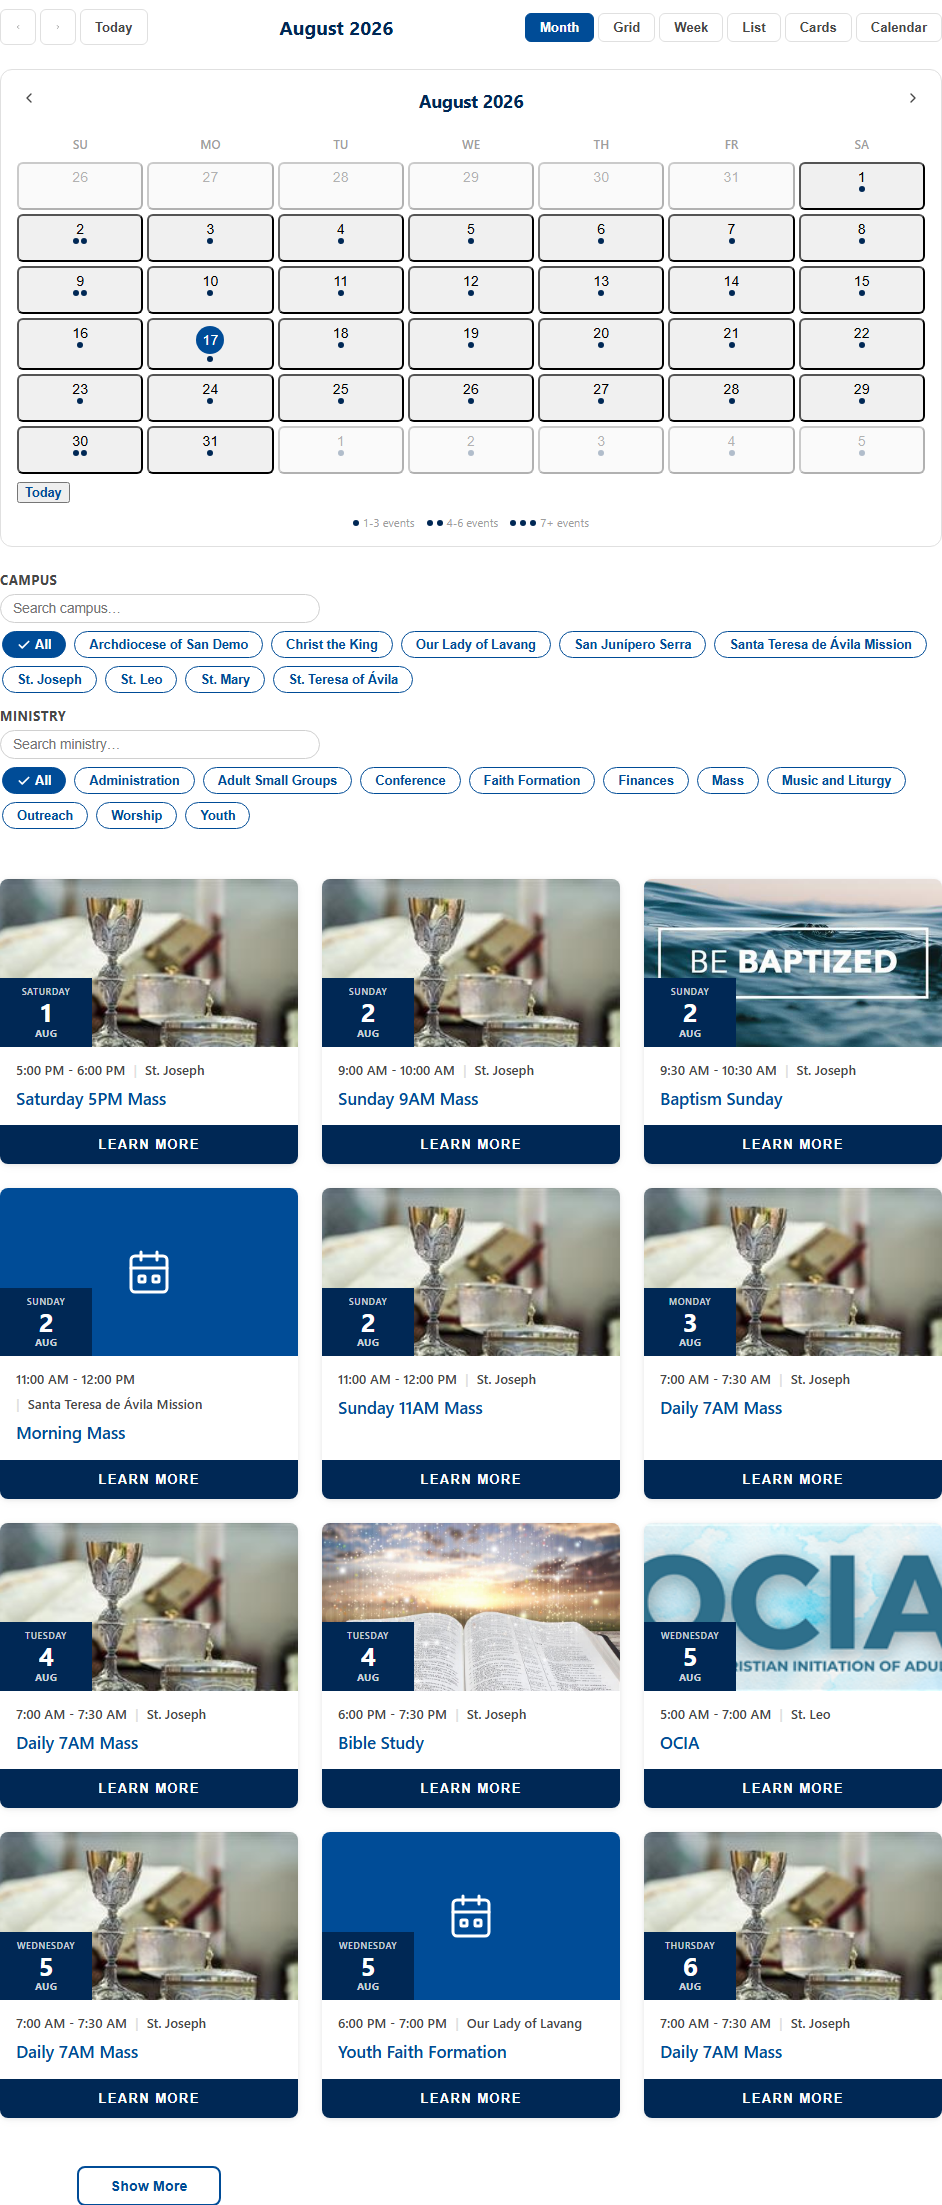
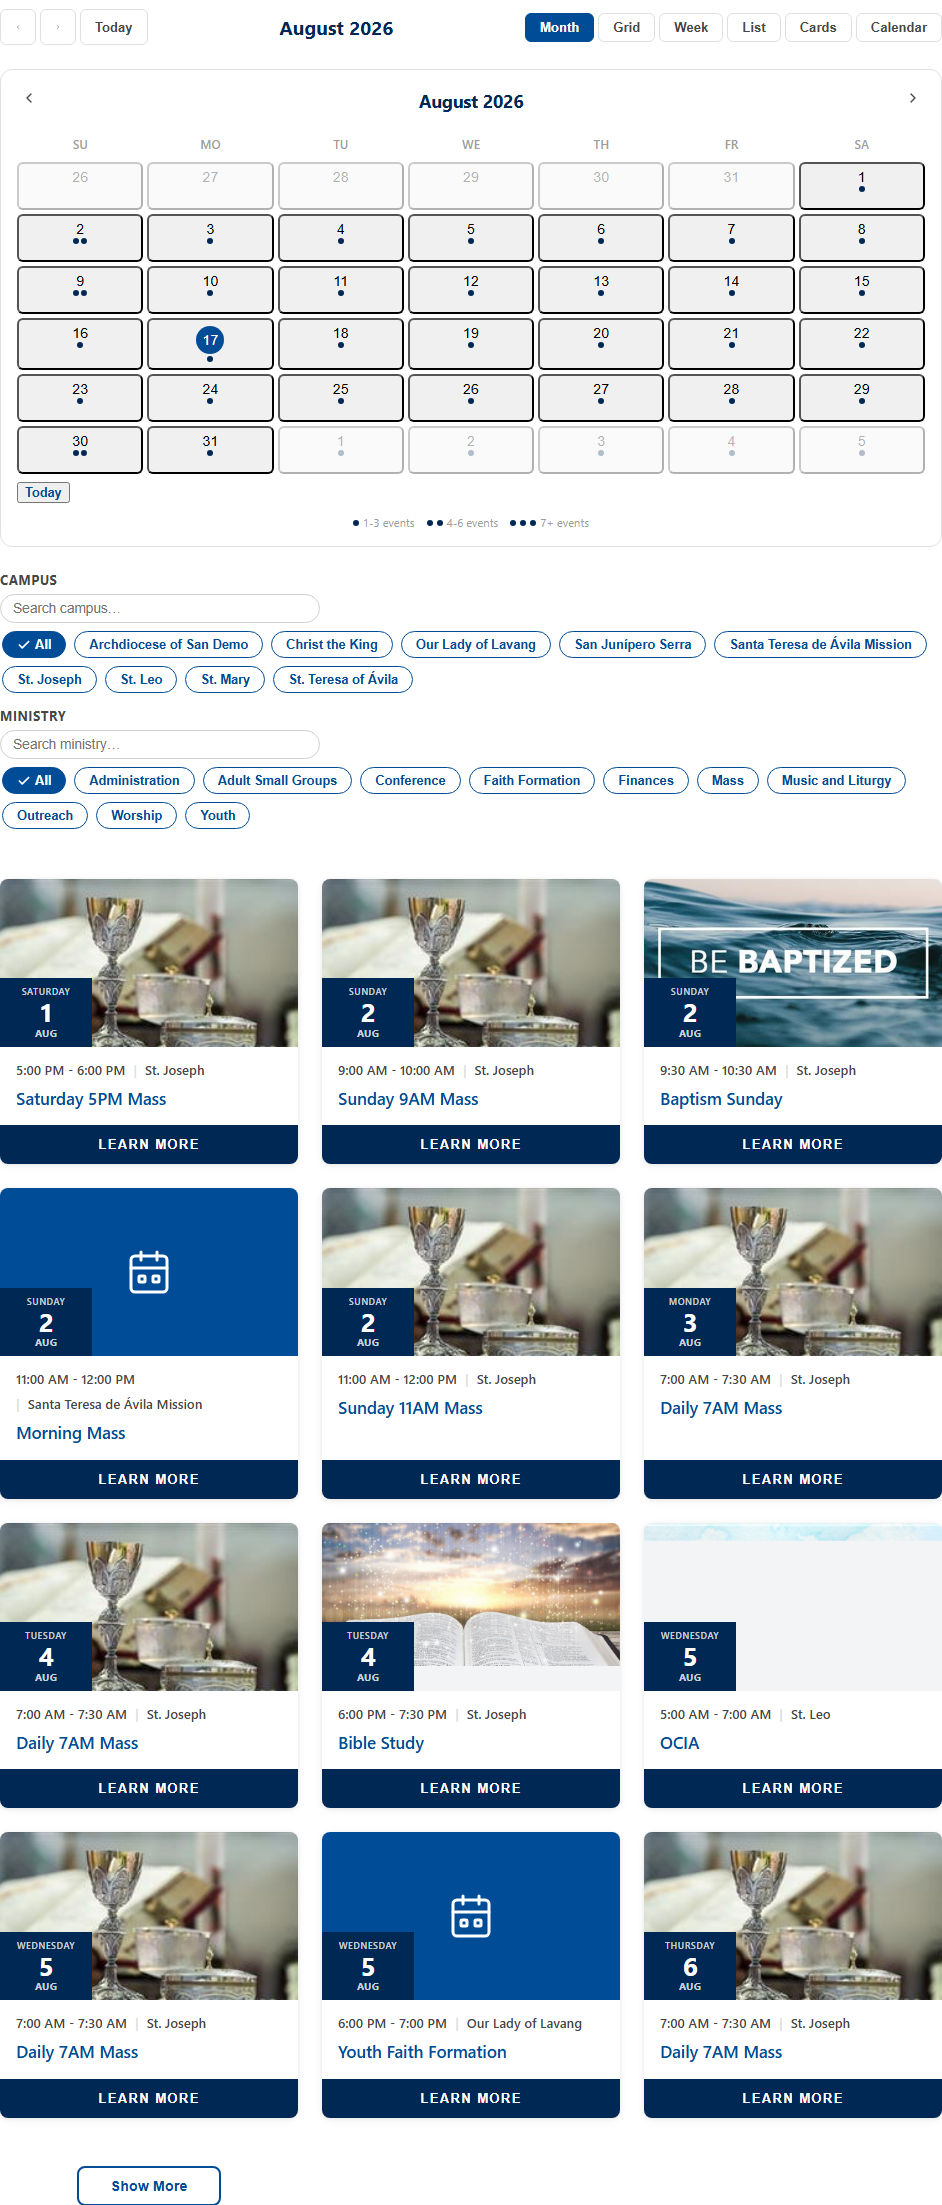
feat(gallery): add multi-image examples for Full Calendar and Space Availability
- Full Calendar now shows 5 labeled views (Month, Grid, Week, List,
  Cards), captured by driving the widget's own view-switcher toolbar
  rather than the demo harness's initial-view control.
- Space Availability's main image now demonstrates the room capacity
  filter (narrows to one room via "Select all"), and a new second
  image shows the "Request This Space" form filled out.
- gallery-images.ts: support up to 6 images per widget (was capped at
  2) plus optional per-image captions; gallery-card.tsx renders the
  caption under each thumbnail when present.

Changed region(s): [[0.6773, 0.6785, 1.0, 0.771], [0.431, 0.7401, 0.6465, 0.771]]

diff --git a/e2e/widget/capture-gallery-screenshots.ts b/e2e/widget/capture-gallery-screenshots.ts
@@ -135,18 +135,51 @@ test.describe("Gallery screenshots — no sign-in required", () => {
 
   test("full-calendar", async ({ page }) => {
     await page.goto("/demo-full-calendar.html");
-    // The demo page shows two instances (main month view + a "cards" view) —
-    // the first is the one worth screenshotting.
+    // The demo page shows two instances (main, toolbar-driven + a static
+    // "cards" one) — the first has the view-switcher toolbar this test
+    // drives through.
     const widget = page.locator("next-full-calendar").first();
     await expect(widget).toBeAttached();
     // The calendar grid renders asynchronously after the widget itself
-    // attaches (this is a hand-built "nw-fc-*" calendar, not the
-    // FullCalendar library despite the name) — wait for the month layout
-    // rather than a blind timeout, which otherwise risks capturing only
-    // the toolbar before layout runs.
+    // attaches — wait for the month layout rather than a blind timeout,
+    // which otherwise risks capturing only the toolbar before layout runs.
     await expect(widget.locator(".nw-fc-month-layout").first()).toBeVisible({ timeout: 10_000 });
     await page.waitForTimeout(500);
-    await shootWidget(widget, "full-calendar");
+    await shootWidget(widget, "full-calendar"); // Month (default) — mini-cal + card grid
+
+    // The widget's own toolbar exposes 6 views total; Month is captured
+    // above and Calendar is visually close to it (same split mini-cal +
+    // cards layout), so these 4 are the most meaningfully different to show.
+    // Grid/Week are the ONLY views that load the real FullCalendar.io
+    // library on demand (everything else is the hand-built "nw-fc-*"
+    // renderer) — they need a longer wait on first switch.
+    await widget.locator('.nw-fc-toolbar-btn[data-view="grid"]').click();
+    await expect(widget.locator(".fc-daygrid, .fc-view-harness").first()).toBeVisible({ timeout: 10_000 });
+    await page.waitForTimeout(800);
+    await shootWidget(widget, "full-calendar", "-2"); // Grid — real FullCalendar month grid
+
+    await widget.locator('.nw-fc-toolbar-btn[data-view="week"]').click();
+    await page.waitForTimeout(1500);
+    await shootWidget(widget, "full-calendar", "-3"); // Week — real FullCalendar week grid
+
+    await widget.locator('.nw-fc-toolbar-btn[data-view="list"]').click();
+    await page.waitForTimeout(500);
+    // The agenda list has no pagination — it renders every upcoming event
+    // with nothing to stop it (20,000+ px tall in this dataset), so a full
+    // widget.screenshot() would be unusably long. Clip to a fixed height
+    // instead, capturing just the toolbar plus the first several days.
+    {
+      const box = await widget.boundingBox();
+      if (!box) throw new Error("Could not measure full-calendar widget bounding box.");
+      await page.screenshot({
+        path: outPath("full-calendar", "-4"),
+        clip: { x: box.x, y: box.y, width: box.width, height: Math.min(box.height, 1400) },
+      });
+    }
+
+    await widget.locator('.nw-fc-toolbar-btn[data-view="cards"]').click();
+    await page.waitForTimeout(500);
+    await shootWidget(widget, "full-calendar", "-5"); // Cards — card grid only
   });
 
   test("mass-intention-calendar", async ({ page }) => {
@@ -187,21 +220,61 @@ test.describe("Gallery screenshots — no sign-in required", () => {
     await expect(widget).toBeAttached();
     await page.waitForTimeout(1500);
 
-    // Drive it to a populated results view rather than the blank first step:
-    // pick a congregation (renders a building <select>), pick a building
-    // (renders the room list + date range), check a room, then search.
-    // St. Leo / Parish Hall / Room A is known to have real bookings on the
-    // demo instance, so the resulting screenshot shows actual reservations
-    // rather than "no reservations found".
-    await widget.locator("select").nth(0).selectOption({ label: "St. Leo" });
+    // ── Image 1: availability results, showing the capacity filter ──
+    // St. Joseph's Main Church has two rooms — Chapel (seats 80, no real
+    // bookings) and Church (seats 1000, real recurring Masses booked) — so
+    // a "seats 100+" filter cleanly narrows to just Church via "Select
+    // all", and the resulting search shows genuine reservations rather
+    // than "no reservations found".
+    await widget.locator("select").nth(0).selectOption({ label: "St. Joseph" });
     await page.waitForTimeout(1000);
-    await widget.locator("select").nth(1).selectOption({ label: "Parish Hall" });
+    await widget.locator("select").nth(1).selectOption({ label: "Main Church" });
     await page.waitForTimeout(1000);
-    await widget.locator('input[type="checkbox"]').first().check({ timeout: 5000 });
-    await widget.locator("#sa-quick-range").selectOption({ value: "d30" });
+    await widget.locator("#sa-room-min-capacity").fill("100");
+    await page.waitForTimeout(300);
+    await widget.locator("#sa-select-all-filtered").click();
+    // "Church" hosts a recurring daily Mass, so d30 produces an absurdly
+    // long results list (6700+ px) — d7 still shows several real, varied
+    // bookings (daily Mass, Bible Study, weekend Masses) at a sane height.
+    await widget.locator("#sa-quick-range").selectOption({ value: "d7" });
     await widget.getByRole("button", { name: /check availability/i }).click();
     await page.waitForTimeout(1500);
     await shootWidget(widget, "space-availability");
+
+    // ── Image 2: the "Request This Space" form filled out ──
+    // Needs allow-requests + program-id, which the default widget instance
+    // above doesn't have — reconfigure via the demo's own controls and
+    // Apply (recreates the widget fresh, built as an HTML string so every
+    // attribute is present at construction time, per the comment in this
+    // demo page's own reload handler).
+    await page.locator("#allow-requests-input").selectOption({ value: "true" });
+    await page.locator("#program-id-input").fill("10");
+    await page.locator("#congregation-ids-input").fill("4"); // St. Joseph — skips straight to Building
+    await page.locator("#reload-btn").click();
+    await page.waitForTimeout(1500);
+
+    const widget2 = page.locator("next-space-availability");
+    await widget2.locator("#sa-building-select").selectOption({ label: "Main Church" });
+    await page.waitForTimeout(1000);
+    await widget2.locator('input[type="checkbox"]').first().check({ timeout: 5000 });
+    await widget2.getByRole("button", { name: /check availability/i }).click();
+    await page.waitForTimeout(1500);
+    await widget2.getByRole("button", { name: /request this space/i }).click();
+    await page.waitForTimeout(300);
+
+    const form = widget2.locator("#sa-request-form");
+    await form.locator("#sa-req-room").selectOption({ label: "Church" });
+    await form.locator("#sa-req-date").fill("2026-09-10");
+    await form.locator("#sa-req-start").selectOption({ value: "18:00" });
+    await form.locator("#sa-req-end").selectOption({ value: "19:30" });
+    await form.locator("#sa-req-setup").fill("15");
+    await form.locator("#sa-req-cleanup").fill("15");
+    await form.locator("#sa-req-name").fill("Jordan Rivera");
+    await form.locator("#sa-req-email").fill("jordan.rivera@example.com");
+    await form.locator("#sa-req-phone").fill("555-201-4488");
+    await form.locator("#sa-req-notes").fill("Monthly parish council meeting — please set up the projector.");
+    await page.waitForTimeout(200);
+    await shootWidget(form, "space-availability", "-2");
   });
 
   test("user-menu", async ({ page }) => {

diff --git a/src/app/gallery/_lib/gallery-images.ts b/src/app/gallery/_lib/gallery-images.ts
@@ -2,12 +2,23 @@ import fs from "fs";
 import path from "path";
 
 const GALLERY_DIR = path.join(process.cwd(), "public", "gallery");
+const MAX_IMAGES_PER_WIDGET = 6;
 
 export interface GalleryImage {
   src: string;
   width: number;
   height: number;
+  caption?: string;
 }
+
+// Manual captions for the widgets where multiple images need labeling to be
+// useful (e.g. distinguishing Full Calendar's different views) — indexed to
+// match capture order (index 0 = {slug}.png, 1 = {slug}-2.png, ...).
+// Widgets not listed here just render without captions.
+const CAPTIONS: Record<string, string[]> = {
+  "full-calendar": ["Month view", "Grid view", "Week view", "List view", "Cards view"],
+  "space-availability": ["Checking availability with the capacity filter", "Requesting a room"],
+};
 
 function readPngSize(filePath: string): { width: number; height: number } {
   const buf = Buffer.alloc(24);
@@ -19,18 +30,20 @@ function readPngSize(filePath: string): { width: number; height: number } {
 
 /**
  * Looks up captured gallery screenshots for a widget slug ({slug}.png,
- * optionally {slug}-2.png for a second hero shot). Reads real dimensions
- * from each PNG's header rather than hardcoding them, so the page stays
- * correct as screenshots are re-captured or added.
+ * {slug}-2.png, {slug}-3.png, ...). Reads real dimensions from each PNG's
+ * header rather than hardcoding them, so the page stays correct as
+ * screenshots are re-captured or added.
  */
 export function getGalleryImages(slug: string): GalleryImage[] {
   const images: GalleryImage[] = [];
-  for (const suffix of ["", "-2"]) {
+  const captions = CAPTIONS[slug];
+  for (let i = 0; i < MAX_IMAGES_PER_WIDGET; i++) {
+    const suffix = i === 0 ? "" : `-${i + 1}`;
     const filename = `${slug}${suffix}.png`;
     const filePath = path.join(GALLERY_DIR, filename);
     if (!fs.existsSync(filePath)) continue;
     const { width, height } = readPngSize(filePath);
-    images.push({ src: `/gallery/${filename}`, width, height });
+    images.push({ src: `/gallery/${filename}`, width, height, caption: captions?.[i] });
   }
   return images;
 }

diff --git a/src/app/gallery/_components/gallery-card.tsx b/src/app/gallery/_components/gallery-card.tsx
@@ -39,10 +39,15 @@ export function GalleryCard({
             >
               <LightboxThumbnail
                 src={img.src}
-                alt={`${widget.title} preview`}
+                alt={img.caption ? `${widget.title}: ${img.caption}` : `${widget.title} preview`}
                 width={img.width}
                 height={img.height}
               />
+              {img.caption && (
+                <div className="border-t border-gray-100 bg-white px-2 py-1.5 text-center text-xs text-gray-500">
+                  {img.caption}
+                </div>
+              )}
             </div>
           ))}
         </div>
